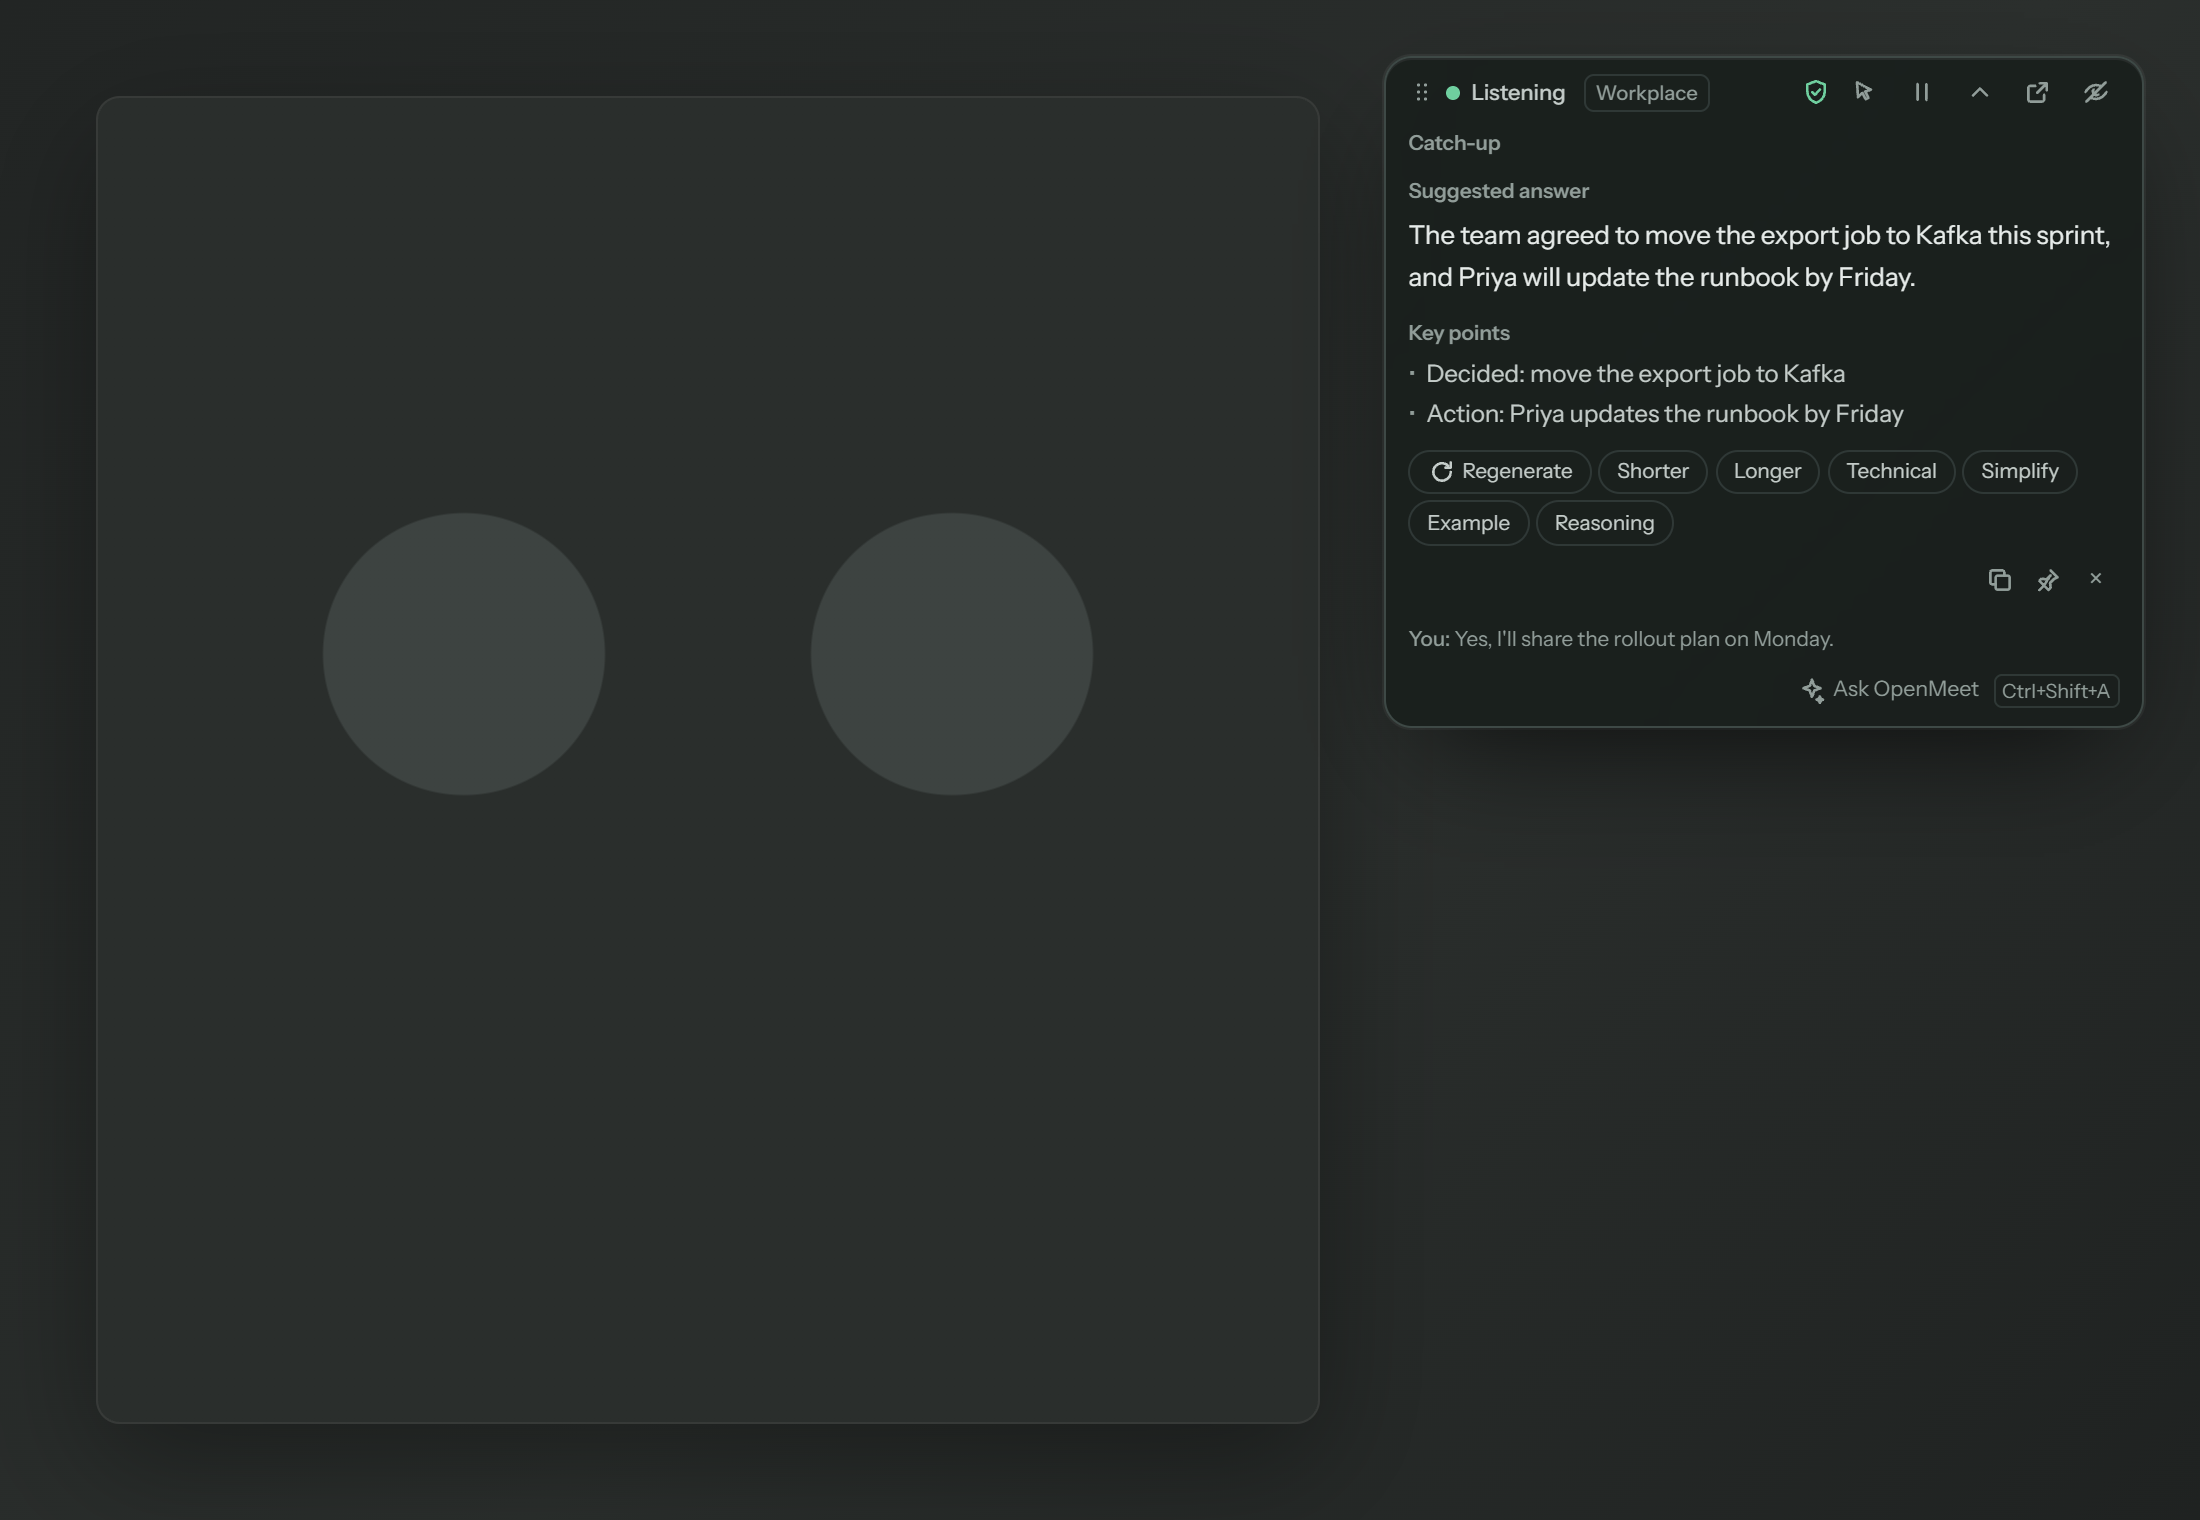
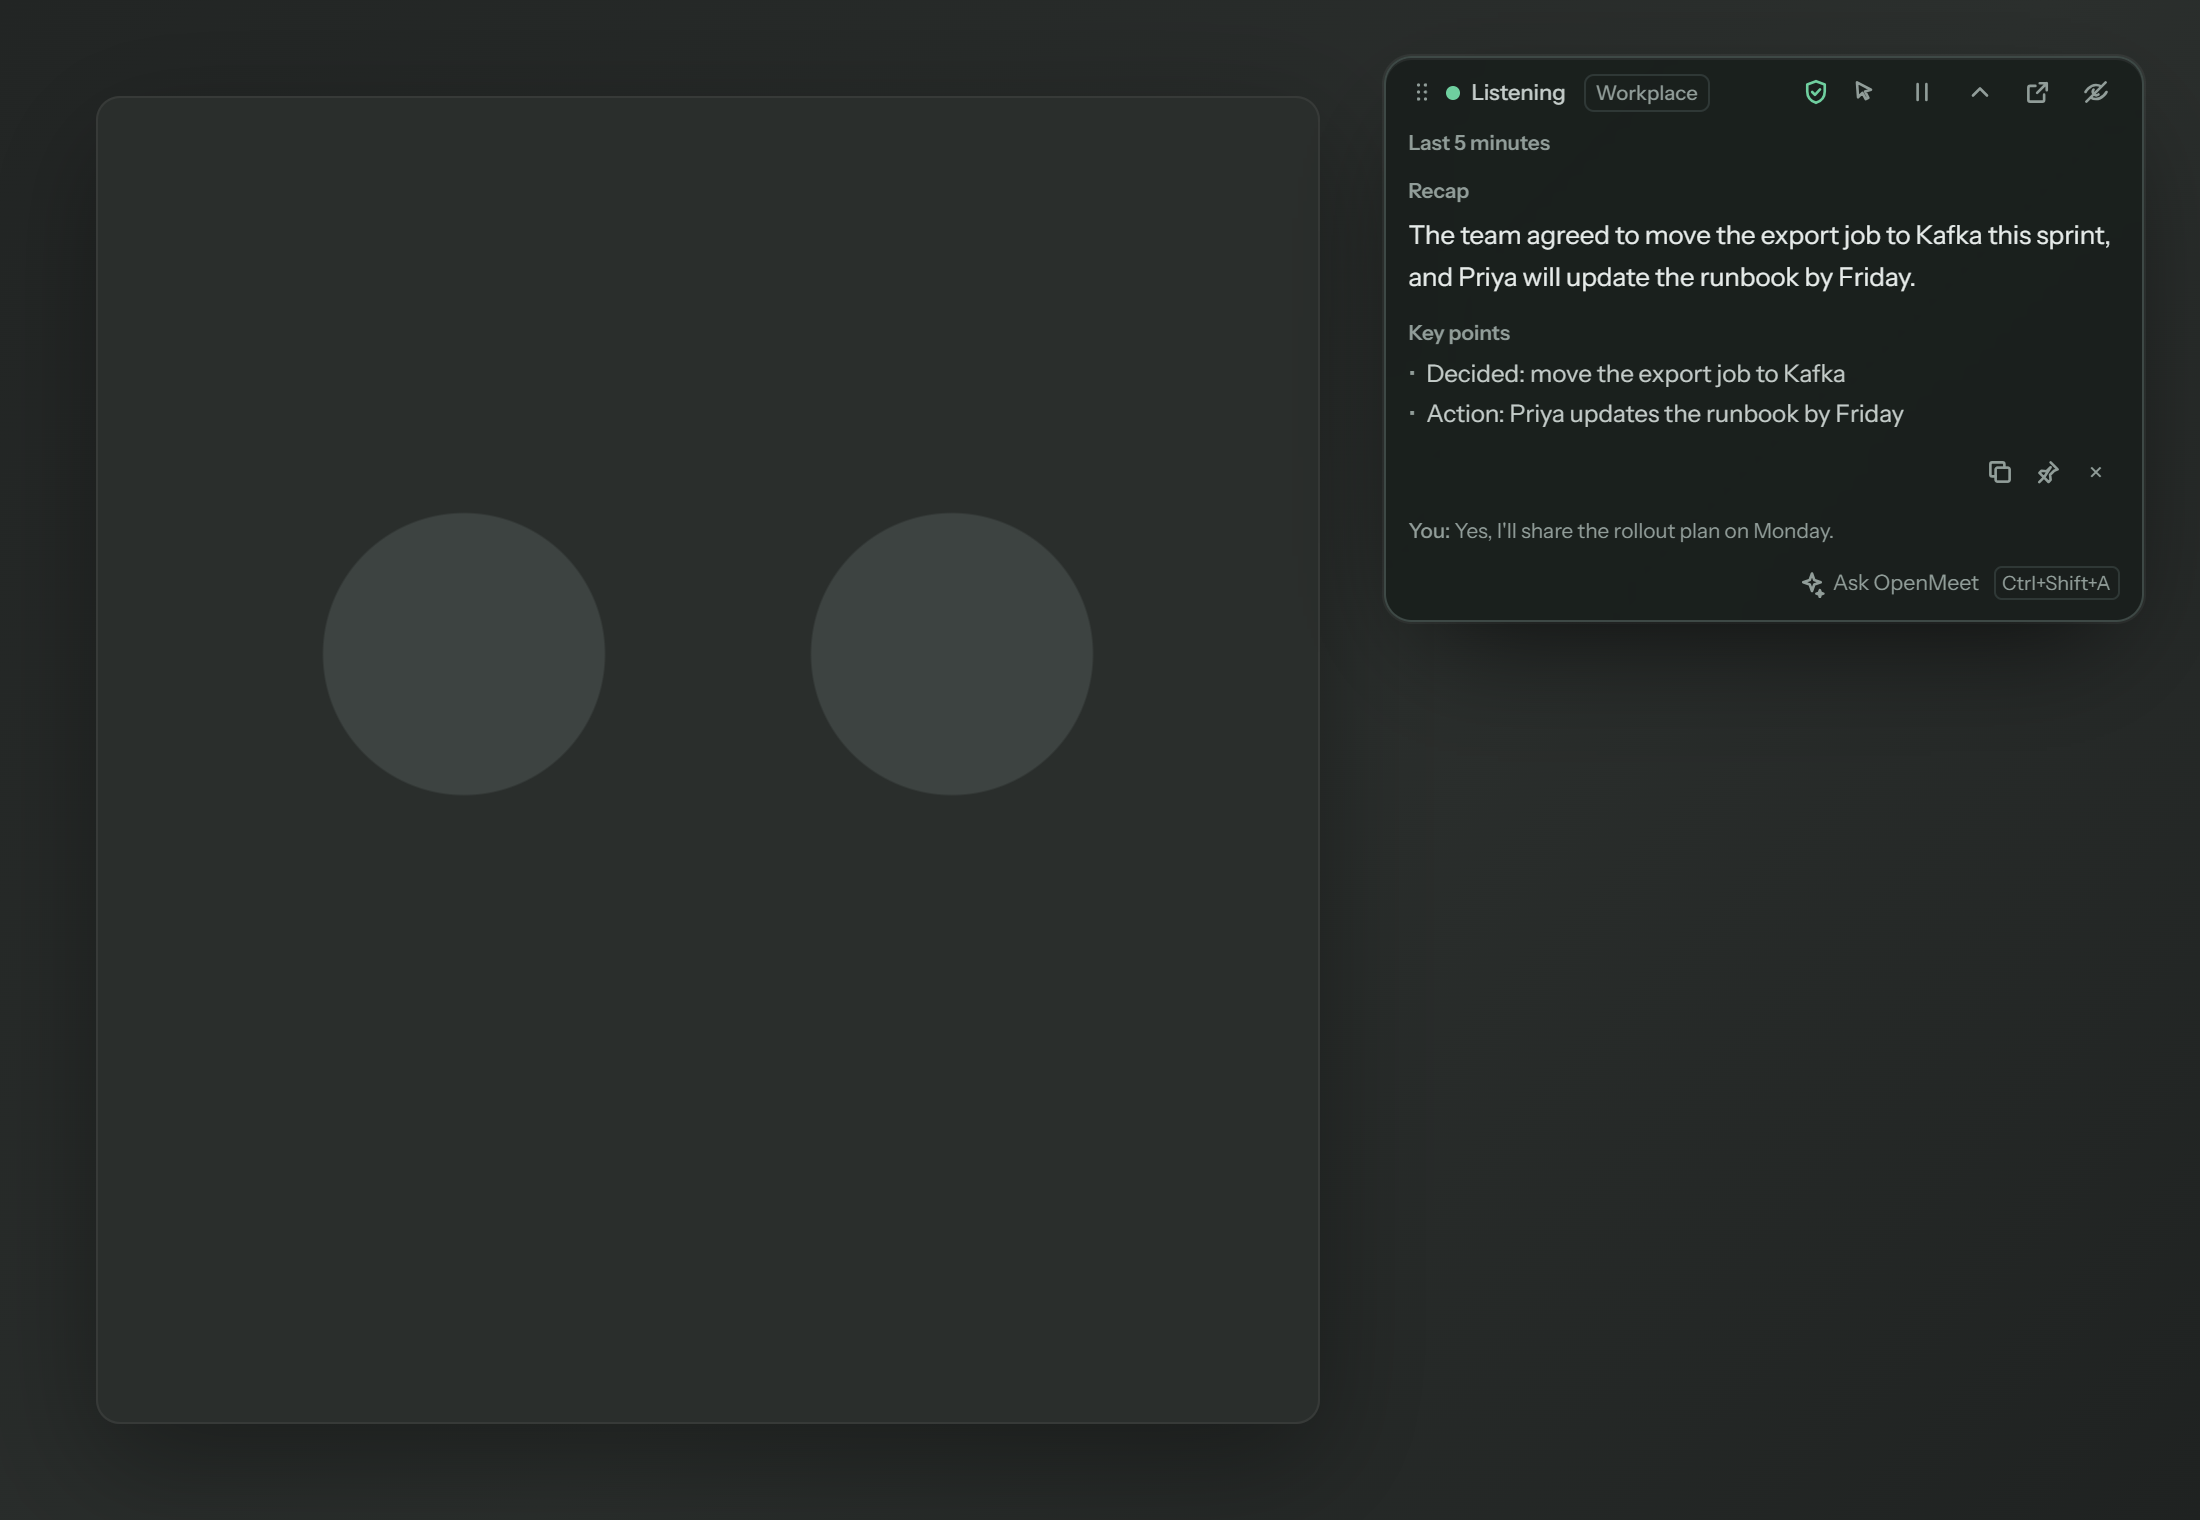
Show catch-up as a recap: window heading, no answer chips
The catch-up card is headed by its window (Last N minutes, carried in the
suggestion's question text), its body is labelled Recap, and the answer
refinement chips are hidden for catch-ups. Retry re-runs the catch-up with
the same window. Vitest covers the card, the window parsing and the retry
plan. overlay-workplace.png is regenerated to match.

diff --git a/src/overlay/cards.tsx b/src/overlay/cards.tsx
@@ -88,7 +88,8 @@ function useCopied(): [boolean, (text: string) => void] {
 function headerFor(p: PrimaryRequest): { label: string; text: string | null } {
   switch (p.kind) {
     case "catch_up":
-      return { label: "Catch-up", text: null };
+      // The heading is the window: "Last 5 minutes".
+      return { label: p.questionText ?? "Catch-up", text: null };
     case "ask_ai":
       return { label: "Ask OpenMeet", text: p.questionText };
     case "clarification":
@@ -115,7 +116,16 @@ function Thinking({ label }: { label: string }) {
   );
 }
 
-function Sections({ a, streaming }: { a: ParsedAnswer; streaming: boolean }) {
+function Sections({
+  a,
+  streaming,
+  recap = false,
+}: {
+  a: ParsedAnswer;
+  streaming: boolean;
+  /** A catch-up: the answer section is a recap, not something to say aloud. */
+  recap?: boolean;
+}) {
   const [showExample, setShowExample] = useState(true);
   const caretOn = (key: ParsedAnswer["current"]) => streaming && a.current === key;
   return (
@@ -137,7 +147,7 @@ function Sections({ a, streaming }: { a: ParsedAnswer; streaming: boolean }) {
       )}
       {(a.answer || (streaming && a.current === "answer")) && (
         <div>
-          <SectionLabel>Suggested answer</SectionLabel>
+          <SectionLabel>{recap ? "Recap" : "Suggested answer"}</SectionLabel>
           <p
             className={cx(
               "mt-1 text-[0.92rem] leading-relaxed whitespace-pre-wrap text-fg",
@@ -264,7 +274,9 @@ export function PrimaryCard({
       </div>
 
       {thinking && <Thinking label="Thinking…" />}
-      {!thinking && p.text.trim() && <Sections a={parsed} streaming={p.state === "streaming"} />}
+      {!thinking && p.text.trim() && (
+        <Sections a={parsed} streaming={p.state === "streaming"} recap={p.kind === "catch_up"} />
+      )}
 
       {p.state === "failed" && (
         <div
@@ -291,29 +303,32 @@ export function PrimaryCard({
 
       {!thinking && (p.text.trim() || p.state === "complete") && (
         <div className="space-y-1.5">
-          <div
-            className="flex flex-wrap items-center gap-1"
-            role="group"
-            aria-label="Answer controls"
-          >
-            <ChipButton
-              disabled={running}
-              title={withHotkey("Regenerate", regenerateKey)}
-              onClick={() => void refine(p.requestId, "regenerate")}
+          {/* A catch-up is a recap: no answer refinements (Retry re-runs it). */}
+          {p.kind !== "catch_up" && (
+            <div
+              className="flex flex-wrap items-center gap-1"
+              role="group"
+              aria-label="Answer controls"
             >
-              <RefreshIcon /> Regenerate
-            </ChipButton>
-            {REFINEMENTS.map((r) => (
               <ChipButton
-                key={r.value}
-                disabled={!canRefine}
-                title={r.title}
-                onClick={() => void refine(p.requestId, r.value)}
+                disabled={running}
+                title={withHotkey("Regenerate", regenerateKey)}
+                onClick={() => void refine(p.requestId, "regenerate")}
               >
-                {r.label}
+                <RefreshIcon /> Regenerate
               </ChipButton>
-            ))}
-          </div>
+              {REFINEMENTS.map((r) => (
+                <ChipButton
+                  key={r.value}
+                  disabled={!canRefine}
+                  title={r.title}
+                  onClick={() => void refine(p.requestId, r.value)}
+                >
+                  {r.label}
+                </ChipButton>
+              ))}
+            </div>
+          )}
           <div className="flex items-center justify-between gap-2">
             {mode === "candidate" && (p.kind === "candidate_answer" || p.kind === "refinement") ? (
               <div className="flex flex-wrap gap-1" role="radiogroup" aria-label="Answer style">

diff --git a/src/overlay/catchUpCard.test.tsx b/src/overlay/catchUpCard.test.tsx
@@ -1,0 +1,67 @@
+import { cleanup, render, screen, within } from "@testing-library/react";
+import { afterEach, describe, expect, it } from "vitest";
+import { PrimaryCard } from "./cards";
+import { catchUpMinutes, retryPlan, type PrimaryRequest } from "./state";
+
+afterEach(cleanup);
+
+function catchUp(patch: Partial<PrimaryRequest> = {}): PrimaryRequest {
+  return {
+    requestId: "req-catch-up",
+    kind: "catch_up",
+    slot: "primary",
+    state: "complete",
+    questionText: "Last 5 minutes",
+    category: null,
+    style: "concise",
+    parentId: null,
+    refinement: null,
+    error: null,
+    text: "[[ANSWER]]\nThe team agreed to move the export job to Kafka.\n[[KEY_POINTS]]\n- Decided: move the export job to Kafka",
+    ...patch,
+  } as unknown as PrimaryRequest;
+}
+
+describe("catch-up card", () => {
+  it("is headed by its window and reads as a recap", () => {
+    render(<PrimaryCard p={catchUp()} style="concise" mode="workplace" />);
+    expect(screen.getByRole("region", { name: "Last 5 minutes" })).toBeTruthy();
+    expect(screen.getByText("Recap")).toBeTruthy();
+    expect(screen.queryByText("Suggested answer")).toBeNull();
+    expect(screen.getAllByText(/move the export job to Kafka/).length).toBeGreaterThan(0);
+  });
+
+  it("has no answer refinement chips but keeps the copy control", () => {
+    render(<PrimaryCard p={catchUp()} style="concise" mode="workplace" />);
+    expect(screen.queryByRole("group", { name: "Answer controls" })).toBeNull();
+    for (const label of ["Regenerate", "Shorter", "Longer", "Technical", "Simplify"]) {
+      expect(screen.queryByText(label)).toBeNull();
+    }
+    const card = screen.getByRole("region", { name: "Last 5 minutes" });
+    expect(within(card).queryByText("Regenerate")).toBeNull();
+  });
+
+  it("still shows refinement chips for an ordinary answer", () => {
+    const answer = catchUp({ kind: "candidate_answer", questionText: "Why Kafka?" });
+    render(<PrimaryCard p={answer} style="concise" mode="candidate" />);
+    expect(screen.getByRole("group", { name: "Answer controls" })).toBeTruthy();
+    expect(screen.getByText("Shorter")).toBeTruthy();
+  });
+});
+
+describe("catch-up window and retry", () => {
+  it("reads the window from the heading and defaults to five minutes", () => {
+    expect(catchUpMinutes("Last 10 minutes")).toBe(10);
+    expect(catchUpMinutes("Last 1 minutes")).toBe(1);
+    expect(catchUpMinutes("Why Kafka?")).toBe(5);
+    expect(catchUpMinutes(null)).toBe(5);
+    expect(catchUpMinutes("Last 0 minutes")).toBe(5);
+  });
+
+  it("retries a catch-up as a catch-up, not as an answer", () => {
+    expect(retryPlan(catchUp({ questionText: "Last 10 minutes" }))).toEqual({
+      kind: "catch_up",
+      minutes: 10,
+    });
+  });
+});

diff --git a/src/overlay/state.ts b/src/overlay/state.ts
@@ -838,7 +838,14 @@ export type RetryPlan =
   | { kind: "refine"; requestId: string; refinement: Refinement }
   | { kind: "answer"; question: string | null }
   | { kind: "ask"; prompt: string }
-  | { kind: "clarify" };
+  | { kind: "clarify" }
+  | { kind: "catch_up"; minutes: number };
+
+/** The window of a catch-up, from its heading ("Last 5 minutes"); 5 if unknown. */
+export function catchUpMinutes(text: string | null): number {
+  const n = Number(/^Last (\d+) minutes$/.exec(text ?? "")?.[1]);
+  return Number.isInteger(n) && n >= 1 && n <= 60 ? n : 5;
+}
 
 /** What "Retry" re-runs for a failed / cancelled primary request. */
 export function retryPlan(p: PrimaryRequest): RetryPlan {
@@ -849,6 +856,8 @@ export function retryPlan(p: PrimaryRequest): RetryPlan {
         : { kind: "refine", requestId: p.requestId, refinement: "regenerate" };
     case "clarification":
       return { kind: "clarify" };
+    case "catch_up":
+      return { kind: "catch_up", minutes: catchUpMinutes(p.questionText) };
     case "refinement":
       return p.parentId
         ? { kind: "refine", requestId: p.parentId, refinement: p.refinement ?? "regenerate" }

diff --git a/scripts/screenshots/fixtures.ts b/scripts/screenshots/fixtures.ts
@@ -507,7 +507,7 @@ export function workplaceSnapshot(): EngineSnapshot {
       kind: "catch_up",
       slot: "primary",
       state: "complete",
-      questionText: null,
+      questionText: "Last 5 minutes",
       category: null,
       style: "concise",
       text: "[[ANSWER]]\nThe team agreed to move the export job to Kafka this sprint, and Priya will update the runbook by Friday.\n[[KEY_POINTS]]\n- Decided: move the export job to Kafka\n- Action: Priya updates the runbook by Friday",

diff --git a/src/overlay/actions.ts b/src/overlay/actions.ts
@@ -51,6 +51,8 @@ export function retry(p: PrimaryRequest) {
       return attempt("Couldn't ask OpenMeet", () => api.askOpenMeet(plan.prompt));
     case "clarify":
       return attempt("Couldn't clarify the question", () => api.clarifyQuestion());
+    case "catch_up":
+      return catchUp(plan.minutes);
   }
 }
 

diff --git a/crates/openmeet-engine/src/assist.rs b/crates/openmeet-engine/src/assist.rs
@@ -462,7 +462,8 @@ pub(crate) fn catch_up(engine: &Engine, minutes: u32) -> Result<Id, CoreError> {
             kind: RequestKind::CatchUp,
             suggestion_kind: SuggestionKind::CatchUp,
             question_id: None,
-            question_text: None,
+            // The overlay heading shows the window ("Last 5 minutes").
+            question_text: Some(format!("Last {minutes} minutes")),
             category: None,
             style: Some(style),
             parent_id: None,
